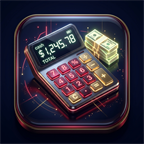
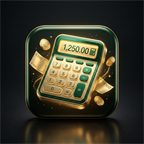
تطبيق الشعار الملكي الذهبي الجديد وتفعيل ميزة تثبيت التحديث الشامل V6.0.0 على الشاشة

diff --git a/index.html b/index.html
@@ -647,14 +647,26 @@
                     <!-- تبويب حول البرنامج -->
                     <div id="tab-about" class="tab-pane">
                         <div class="neu-card" style="text-align: center; padding: 25px 15px;">
-                            <div
-                                style="width: 75px; height: 75px; background: var(--gold-gradient-simple); border-radius: 50%; display: flex; align-items: center; justify-content: center; margin: 0 auto 15px; box-shadow: 0 0 25px rgba(212, 175, 55, 0.4); border: 2px solid #fff;">
-                                <i class="fas fa-calculator" style="font-size: 2.2em; color: #000;"></i>
-                            </div>
+                            <img src="icons/icon-192.png?v=6.0.0" alt="شعار حاسبة النقدية الملكي" style="width: 82px; height: 82px; border-radius: 20px; margin: 0 auto 12px; display: block; box-shadow: 0 8px 25px rgba(0, 0, 0, 0.35); border: 2px solid var(--gold-primary);">
                             <h2
                                 style="margin: 0; font-size: 1.6em; background: var(--gold-gradient); -webkit-background-clip: text; -webkit-text-fill-color: transparent; background-clip: text; font-weight: 900;">
                                 حاسبة النقدية الذكية Pro</h2>
                             <p style="color: var(--primary-color); font-weight: 800; margin-top: 5px; font-size: 1em;">الإصدار الموحد V6.0.0 Pro الشامل ⭐</p>
+
+                            <!-- كارت تثبيت التحديث على الشاشة الرئيسية -->
+                            <div style="margin-top: 15px; padding: 12px 14px; text-align: right; background: var(--input-bg); border-radius: 16px; border: 1.5px solid var(--border-color); display: flex; align-items: center; justify-content: space-between; gap: 10px;">
+                                <div style="flex: 1;">
+                                    <div style="font-weight: 900; font-size: 0.9em; color: var(--text-color); margin-bottom: 2px;">
+                                        <i class="fas fa-mobile-alt" style="color: var(--primary-color); margin-left: 6px;"></i> تثبيت التحديث على الشاشة
+                                    </div>
+                                    <div style="font-size: 0.78em; color: var(--text-muted); line-height: 1.4;">
+                                        تثبيت النسخة الرسمية الشاملة V6.0.0 على هاتفك كأنه تطبيق أصلي
+                                    </div>
+                                </div>
+                                <button type="button" onclick="showInstallUpdateGuide()" class="btn" style="padding: 6px 14px; font-size: 0.82em; font-weight: 850; border-radius: 12px; background: var(--primary-color); color: #fff; border: none; white-space: nowrap; cursor: pointer;">
+                                    تثبيت الآن 📲
+                                </button>
+                            </div>
 
                             <!-- بطاقة تحديثات اليوم -->
                             <div style="margin-top: 15px; background: var(--input-bg); border: 1px solid var(--border-color); border-radius: 15px; padding: 12px; text-align: right;">

diff --git a/script.js b/script.js
@@ -5185,3 +5185,43 @@ ${diffIcon} *الفارق:* ${diff >= 0 ? '+' : ''}${diff.toLocaleString('ar-EG'
                 }
             });
         });
+
+        // --- 📲 تثبيت التحديث الشامل V6.0.0 على الشاشة الرئيسية 📲 ---
+        let deferredInstallPrompt = null;
+        window.addEventListener('beforeinstallprompt', (e) => {
+            e.preventDefault();
+            deferredInstallPrompt = e;
+        });
+
+        window.showInstallUpdateGuide = function() {
+            if (deferredInstallPrompt) {
+                deferredInstallPrompt.prompt();
+                deferredInstallPrompt.userChoice.then((choiceResult) => {
+                    if (choiceResult.outcome === 'accepted') {
+                        Swal.fire({ icon: 'success', title: 'تم البدء!', text: 'جاري تثبيت التحديث الجديد على هاتفك ✅', timer: 2000, showConfirmButton: false });
+                    }
+                    deferredInstallPrompt = null;
+                });
+                return;
+            }
+            Swal.fire({
+                title: '📲 تثبيت التحديث الشامل على الشاشة',
+                html: `
+                    <div style="text-align: right; direction: rtl; font-size: 0.88em; line-height: 1.7; color: var(--text-color); padding: 5px;">
+                        <p style="font-weight: 850; margin-bottom: 12px; color: var(--primary-color);">
+                            لتثبيت التحديث الشامل V6.0.0 وضمان ظهور أحدث نسخة على هاتفك:
+                        </p>
+                        <div style="background: var(--input-bg); padding: 10px 12px; border-radius: 12px; border: 1.5px solid var(--border-color); margin-bottom: 10px;">
+                            <b>1⃣ الخطوة الأولى:</b> اذهب لشاشة هاتفك واحذف أيقونة التطبيق السابقة (إزالة / إلغاء التثبيت).
+                        </div>
+                        <div style="background: var(--input-bg); padding: 10px 12px; border-radius: 12px; border: 1.5px solid var(--border-color);">
+                            <b>2⃣ الخطوة الثانية:</b> افتح قائمة خيارات المتصفح (⋮ أو 📤) واضغط على <b>«إضافة إلى الشاشة الرئيسية»</b> أو <b>«تثبيت التطبيق»</b>.
+                        </div>
+                    </div>
+                `,
+                confirmButtonText: 'حسناً، فهمت ✅',
+                confirmButtonColor: 'var(--primary-color)',
+                background: 'var(--card-background)',
+                color: 'var(--text-color)'
+            });
+        };
